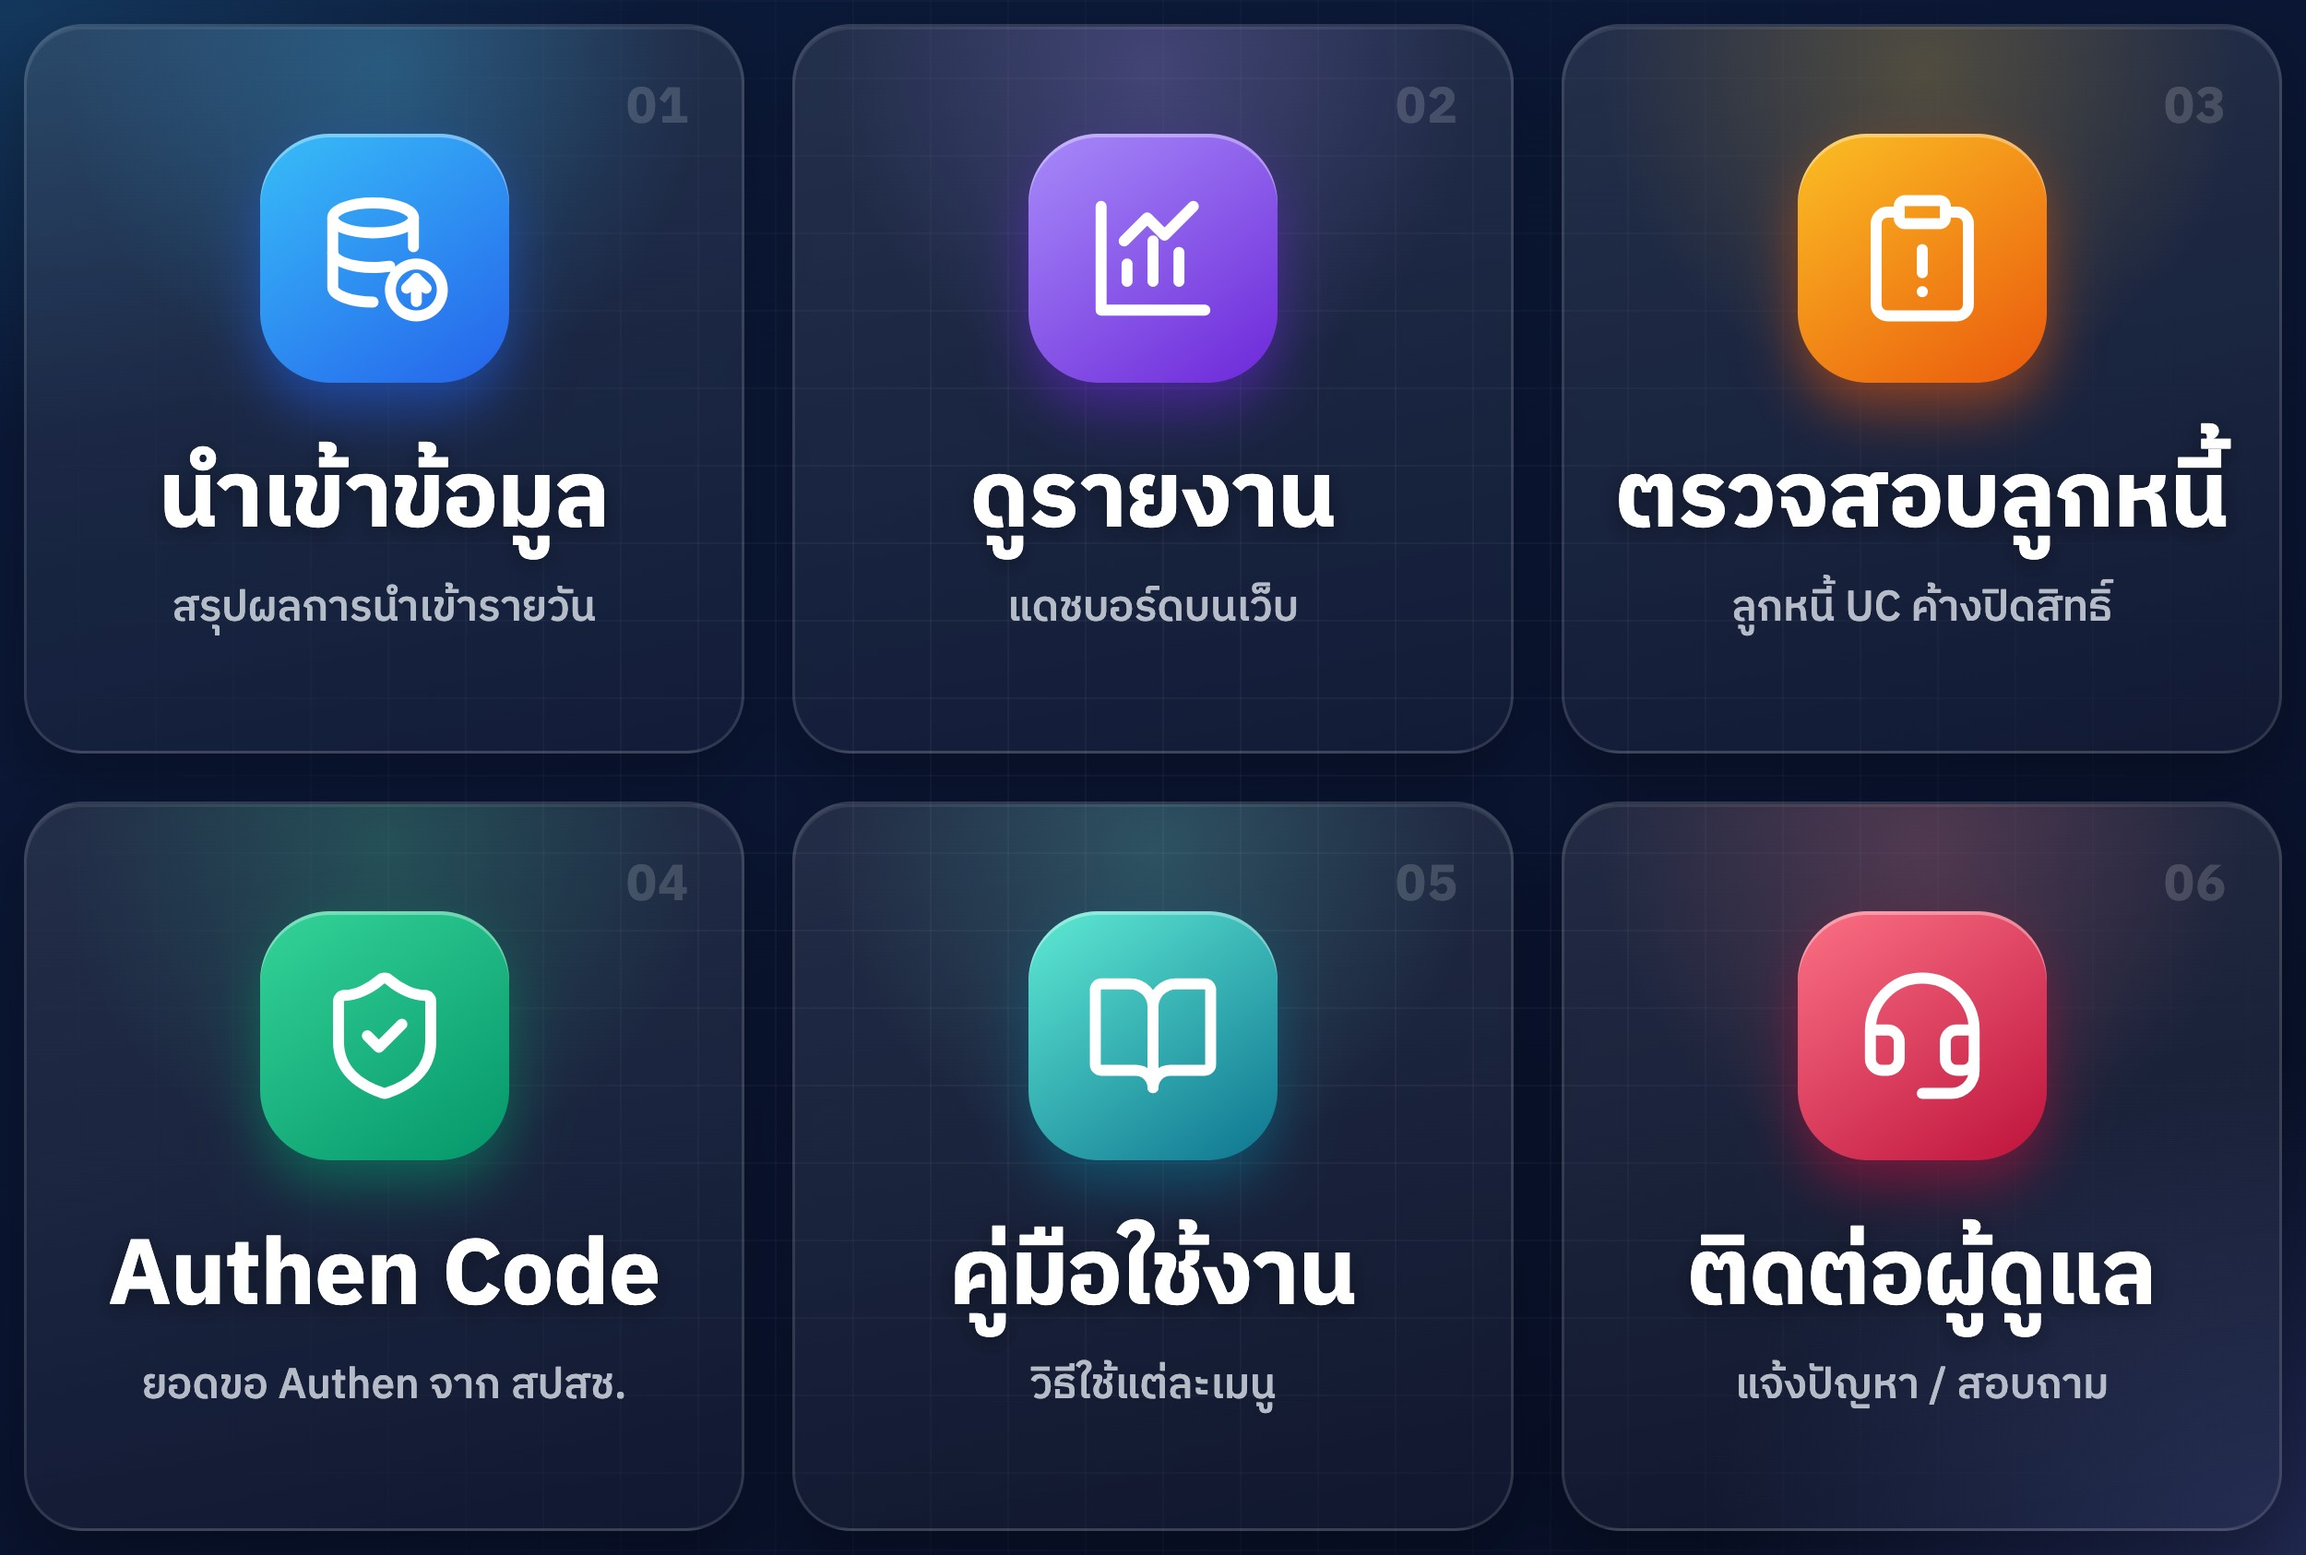
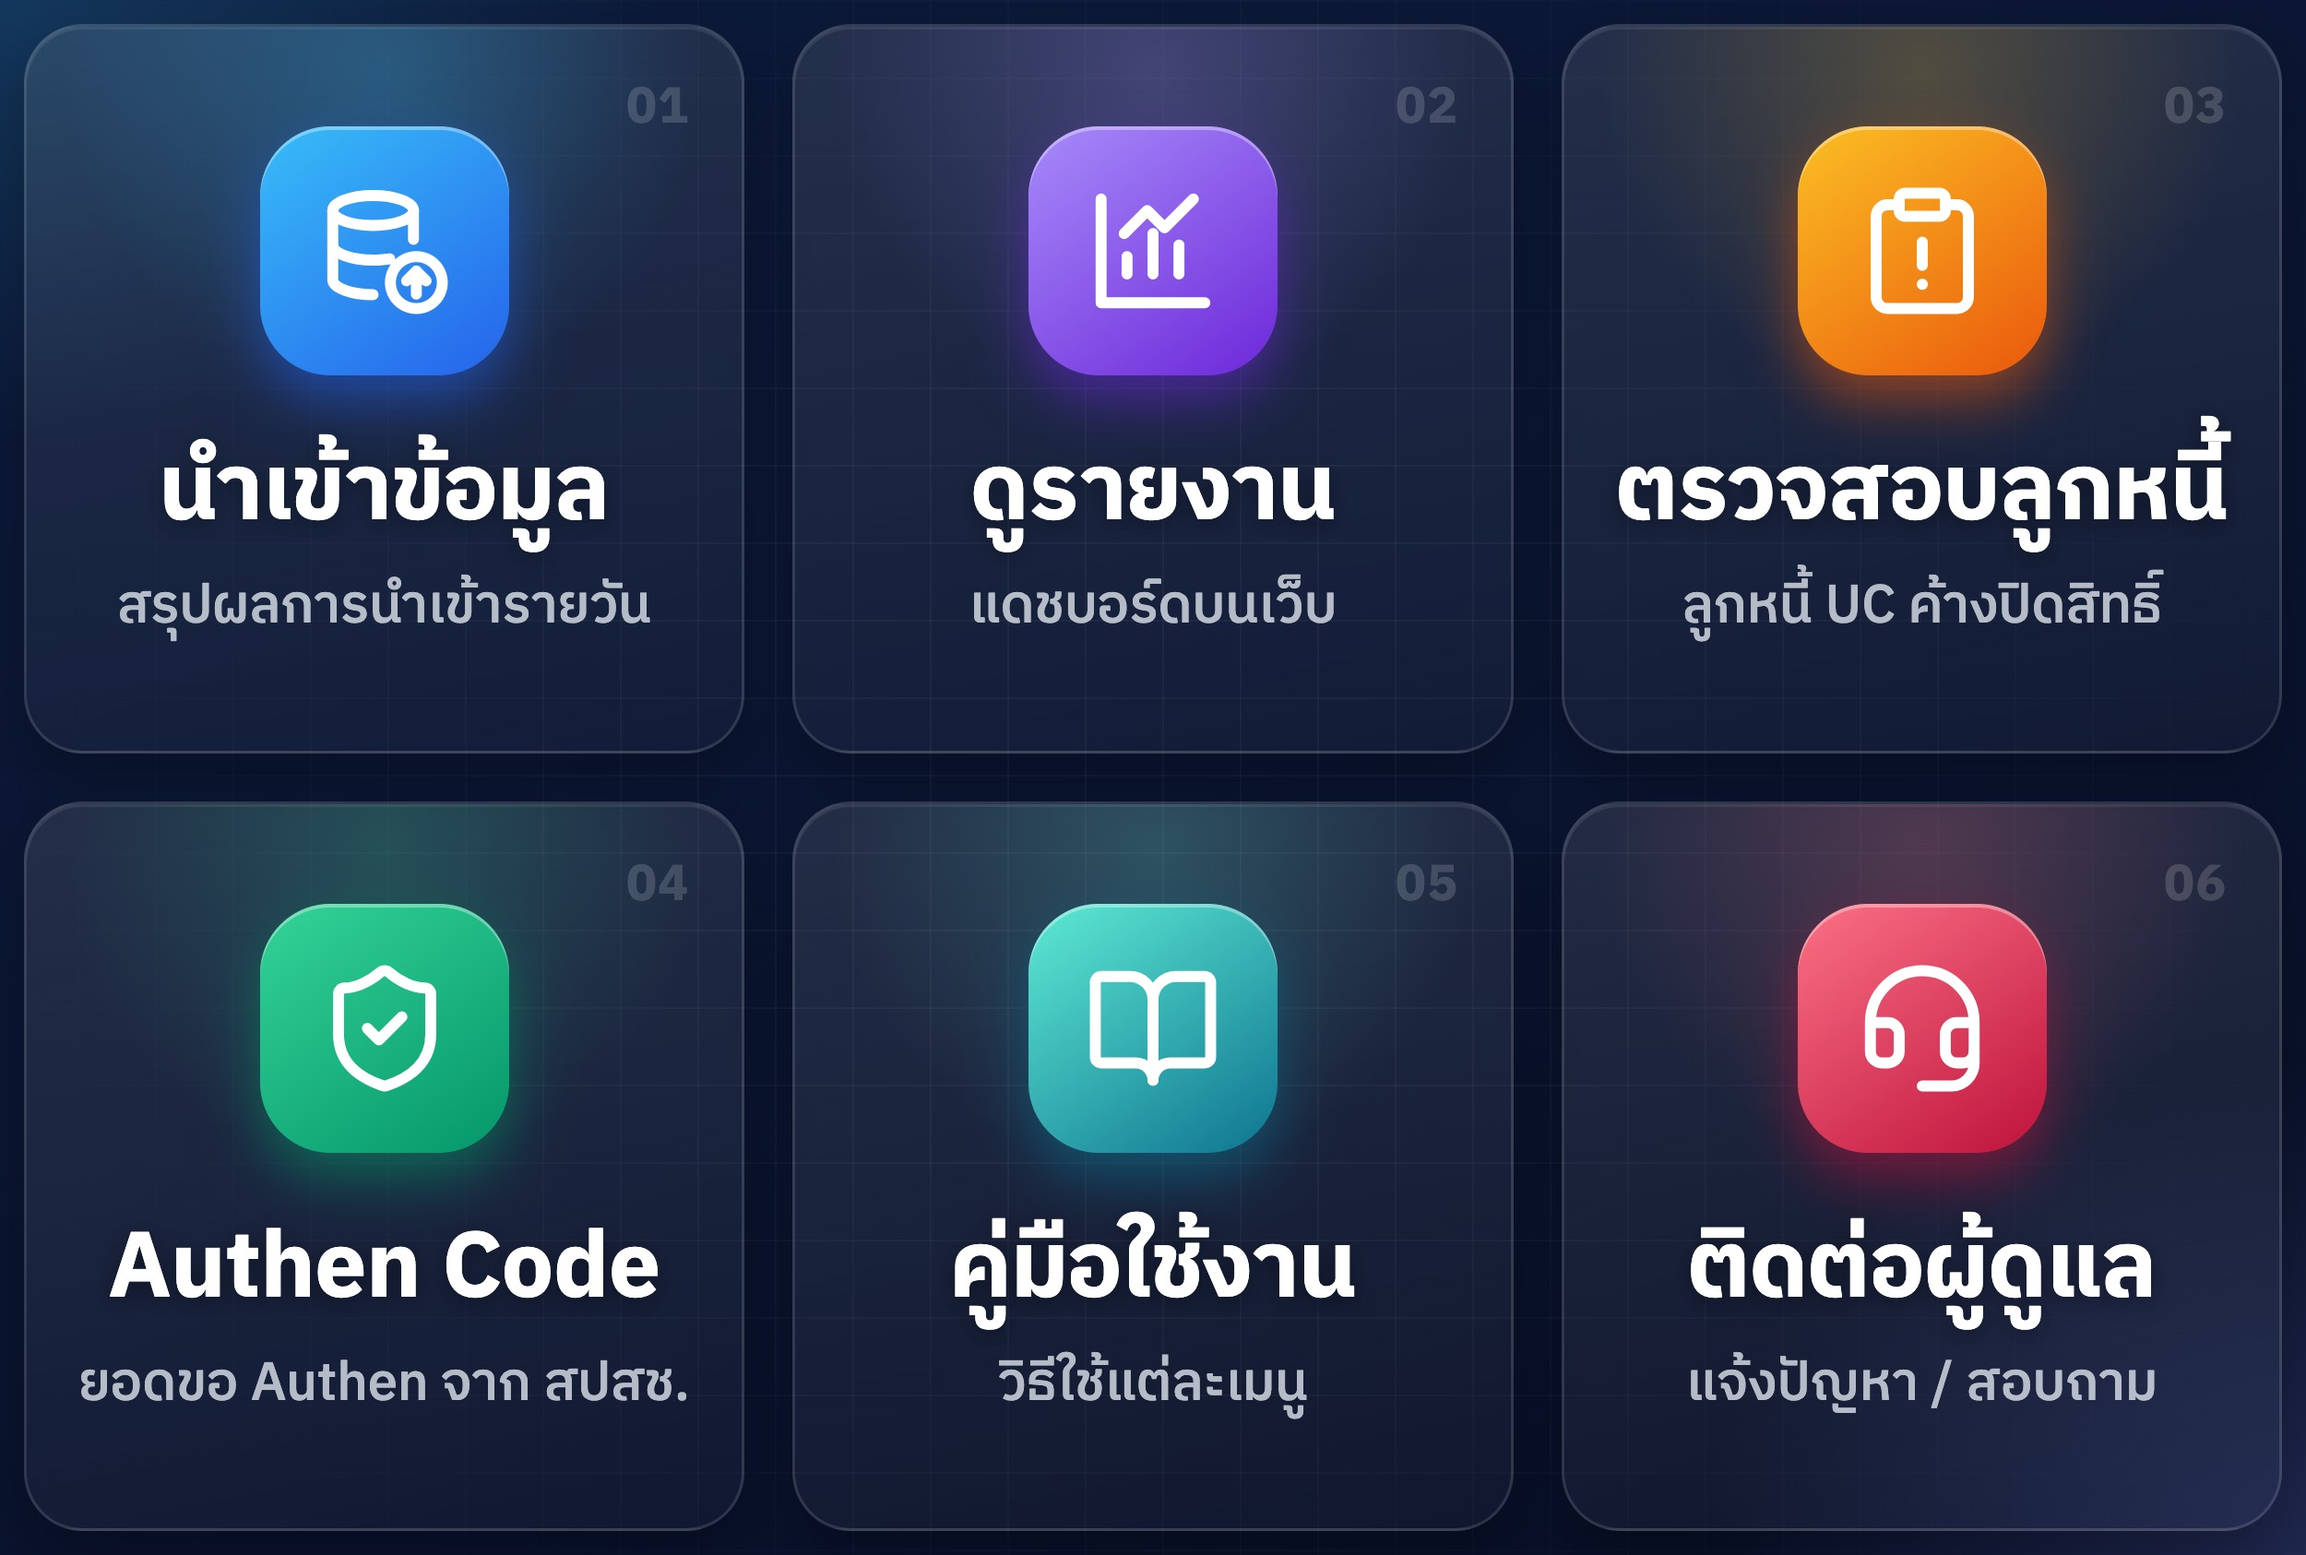
feat: add other rights breakdown to LINE summary flex message and update rich menu assets

diff --git a/api/line/webhook.js b/api/line/webhook.js
@@ -605,6 +605,9 @@ async function sendLineReplyAuthenSummary(replyToken, queryDate) {
     const formattedDate = new Date(queryDate).toLocaleDateString('th-TH', { day: 'numeric', month: 'long', year: 'numeric' });
     const stats = await fetchSummaryData(queryDate);
 
+    // "รับบริการทั้งหมด" counts every right, the other rows only UC; show the rest so the rows add up.
+    const other_rights_count = Math.max(0, stats.service_total_count - stats.authen_count - stats.endpoint_count - stats.not_imported_count);
+
     const flexBubble = {
         type: "bubble", size: "giga",
         body: {
@@ -630,11 +633,27 @@ async function sendLineReplyAuthenSummary(replyToken, queryDate) {
                                 { type: "text", text: `${stats.authen_count} ราย`, color: "#34d399", size: "md", align: "end", weight: "bold" }
                             ]
                         },
+                        ...(stats.endpoint_count > 0 ? [
+                            {
+                                type: "box", layout: "horizontal",
+                                contents: [
+                                    { type: "text", text: "ขอแล้ว รอปิด Endpoint:", color: "#ecfdf5", size: "sm" },
+                                    { type: "text", text: `${stats.endpoint_count} ราย`, color: "#fbbf24", size: "md", align: "end", weight: "bold" }
+                                ]
+                            }
+                        ] : []),
                         {
                             type: "box", layout: "horizontal",
                             contents: [
                                 { type: "text", text: "ยังไม่นำเข้า / ค้างปิดสิทธิ์:", color: "#ecfdf5", size: "sm" },
                                 { type: "text", text: `${stats.not_imported_count} ราย`, color: "#f87171", size: "md", align: "end", weight: "bold" }
+                            ]
+                        },
+                        {
+                            type: "box", layout: "horizontal",
+                            contents: [
+                                { type: "text", text: "สิทธิ์อื่น / ไม่เข้าเกณฑ์:", color: "#ecfdf5", size: "sm" },
+                                { type: "text", text: `${other_rights_count} ราย`, color: "#94a3b8", size: "md", align: "end", weight: "bold" }
                             ]
                         }
                     ]

diff --git a/backend/server.js b/backend/server.js
@@ -1134,6 +1134,9 @@ async function sendLineReplyAuthenSummary(replyToken, queryDate) {
         logger.warn(`⚠ Query authen summary error: ${err.message}`);
     }
 
+    // "รับบริการทั้งหมด" counts every right, the other rows only UC; show the rest so the rows add up.
+    const other_rights_count = Math.max(0, service_total_count - authen_count - not_imported_count);
+
     const flexBubble = {
         type: "bubble", size: "giga",
         body: {
@@ -1164,6 +1167,13 @@ async function sendLineReplyAuthenSummary(replyToken, queryDate) {
                             contents: [
                                 { type: "text", text: "ยังไม่นำเข้า / ค้างปิดสิทธิ์:", color: "#ecfdf5", size: "sm" },
                                 { type: "text", text: `${not_imported_count} ราย`, color: "#f87171", size: "md", align: "end", weight: "bold" }
+                            ]
+                        },
+                        {
+                            type: "box", layout: "horizontal",
+                            contents: [
+                                { type: "text", text: "สิทธิ์อื่น / ไม่เข้าเกณฑ์:", color: "#ecfdf5", size: "sm" },
+                                { type: "text", text: `${other_rights_count} ราย`, color: "#94a3b8", size: "md", align: "end", weight: "bold" }
                             ]
                         }
                     ]

diff --git a/scripts/line-rich-menu/rich-menu.html b/scripts/line-rich-menu/rich-menu.html
@@ -79,8 +79,8 @@
   }
   .sub {
     position: relative;
-    margin-top: 18px;
-    font-size: 46px; font-weight: 500;
+    margin-top: 14px;
+    font-size: 58px; font-weight: 500;
     color: rgba(226, 232, 240, 0.78);
     white-space: nowrap;
   }
